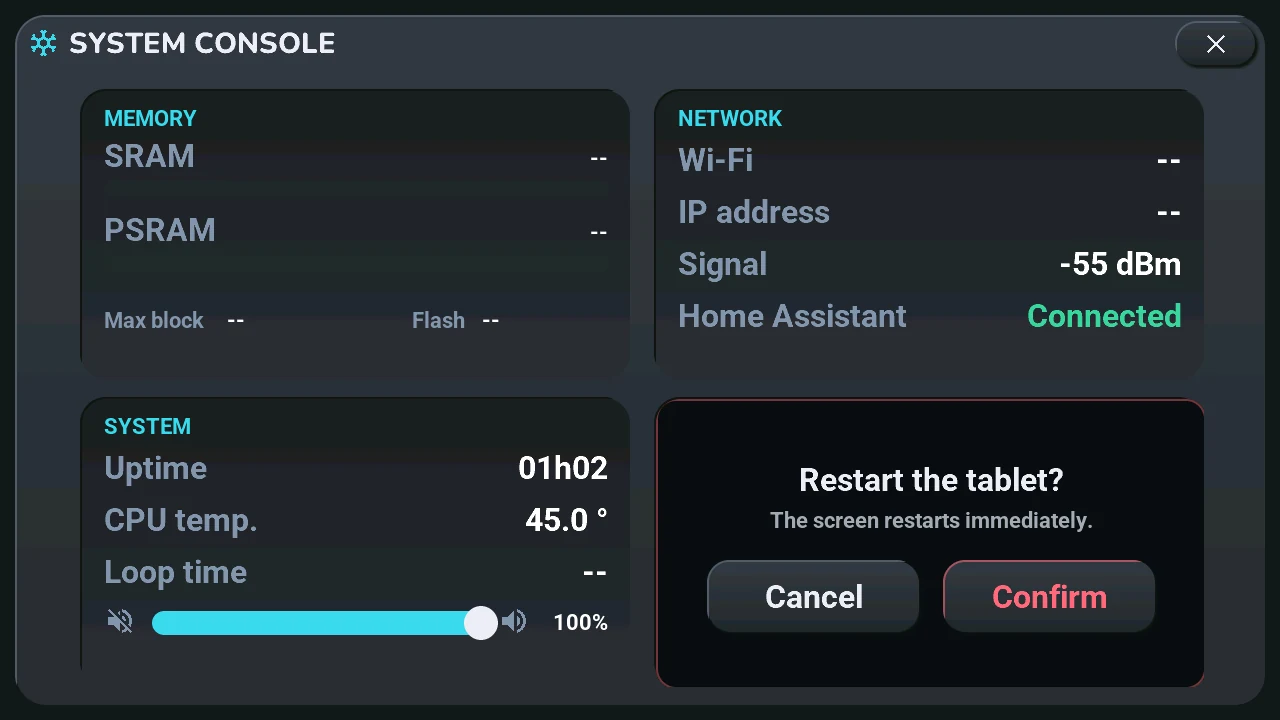
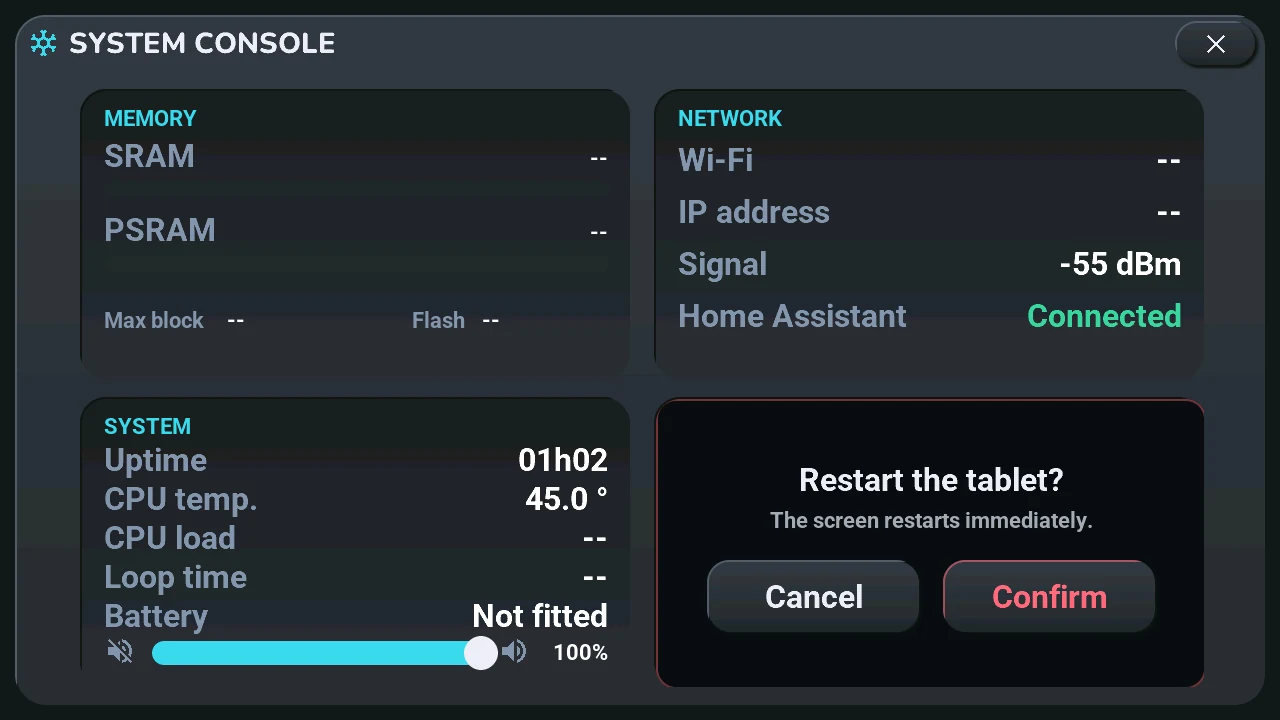
docs(notice): images de la console tirées du rendu de la CI (#348)
Captures du run 37464474680 du rendu hors tablette (commit 617de21),
converties par tools/site/images_notice.py : la console avec la carte
SYSTÈME à six lignes et la carte GESTION en 2 × 2, et la nouvelle image
console-batterie (batterie montée : niveau, tension, icône), citée par la
notice. Les autres images de la notice ne sont pas touchées.

Changed region(s): [[0.0625, 0.6111, 0.4688, 0.9472], [0.4062, 0.6111, 0.4688, 0.7639]]

diff --git a/tests/test_notice.py b/tests/test_notice.py
@@ -50,8 +50,6 @@ NON_MONTREES = {
     "console-confirmer-redemarrage-ha": "même confirmation que console-confirmer-reboot",
     "console-batterie-en-charge": "console-batterie montre la même ligne ; l'éclair est décrit",
     "console-sans-batterie": "console-batterie montre la même ligne ; « Sur USB » est décrit",
-    # Provisoire (06/10/2026) : image à tirer du rendu de la CI de la PR de la console.
-    "console-batterie": "image à tirer du premier rendu de la CI qui le contient",
 }
 
 

diff --git a/docs/notice/console.md b/docs/notice/console.md
@@ -13,6 +13,8 @@
 - **CPU load**: how busy each of the processor's two cores was over the last 2 seconds, core 0 then core 1. Core 1 runs ESPHome's main loop (the screen, the link to Home Assistant): when the screen feels slow, look at it. "--" during the first 2 seconds after opening.
 - **Battery**: the level and the voltage of the tablet's own battery, with the icon of the status bar (a bolt while charging; the level, estimated from the voltage, reads high while charging). **On USB** when no battery is detected, **Not fitted** while the **Tab5 Batterie montée** switch is off (the tablet's device page in Home Assistant): never a made-up 0 % or 100 %.
 
+![The System card with a battery fitted: level, voltage and the status-bar icon](../images/notice/console-batterie-en.webp)
+
 **Management**
 
 - **Refresh screen**: Home Assistant sends everything again. The first thing to try when the screen shows old data.
@@ -39,6 +41,8 @@ The theme, light or dark and the language are in the [settings](settings.md). To
 
 - **Charge CPU** : l'occupation de chacun des deux cœurs du processeur sur les 2 dernières secondes, cœur 0 puis cœur 1. Le cœur 1 fait tourner la boucle d'ESPHome (l'écran, le lien avec Home Assistant) : c'est lui à regarder quand l'écran semble lent. « -- » pendant les 2 premières secondes après l'ouverture.
 - **Batterie** : le niveau et la tension de la batterie de la tablette, avec l'icône du bandeau d'état (un éclair pendant la charge ; le niveau, estimé d'après la tension, lit trop haut pendant la charge). **Sur USB** quand aucune batterie n'est détectée, **Non montée** tant que l'interrupteur **Tab5 Batterie montée** est éteint (page de l'appareil de la tablette dans Home Assistant) : jamais un faux 0 % ou 100 %.
+
+![La carte Système avec une batterie montée : niveau, tension et l'icône du bandeau](../images/notice/console-batterie-fr.webp)
 
 **Gestion**
 
